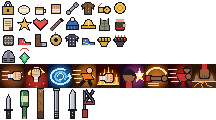
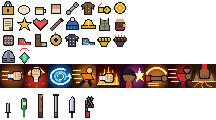
Draw held weapons at the characters' scale
Weapons were nearly half a character tall. Redraw them hand-sized (knife
blade ~9 px, bottle ~12 px, plank and pipe ~23 px, chair ~20 px) with slim
handles so the fist shows around the grip.

Claude-Session: https://claude.ai/code/session_013k7rwq325dcb7HgG4RCeyW

Changed region(s): [[0.3056, 0.75, 0.4444, 1.0], [0.1667, 0.725, 0.2778, 1.0], [0.0, 0.75, 0.1389, 1.0]]

diff --git a/tools/assets/gen_ui.py b/tools/assets/gen_ui.py
@@ -488,71 +488,65 @@ WOOD_DARK = (110, 74, 42, 255)
 
 
 def weapon_knife(d: ImageDraw.ImageDraw) -> None:
-    d.polygon([(6, 21), (6, 11), (8, 6), (10, 11), (10, 21)], fill=OUTLINE)
-    d.polygon([(7, 20), (7, 11), (8, 8), (9, 11), (9, 20)], fill=STEEL)
-    d.line((9, 11, 9, 20), fill=STEEL_DARK)
-    d.rectangle((4, 21, 12, 22), fill=OUTLINE)
-    d.rectangle((6, 22, 10, 30), fill=OUTLINE)
-    d.rectangle((7, 23, 9, 29), fill=(60, 44, 36, 255))
-    d.point((8, 25), fill=(200, 170, 90, 255))
+    # Hand-sized: the handle (no outline) sits in the fist, the blade is ~9 px.
+    d.rectangle((6, 15, 9, 24), fill=OUTLINE)
+    d.rectangle((7, 16, 8, 23), fill=STEEL)
+    d.point((8, 15), fill=STEEL)
+    d.line((8, 16, 8, 23), fill=STEEL_DARK)
+    d.line((5, 24, 10, 24), fill=OUTLINE)
+    d.rectangle((7, 25, 8, 29), fill=(60, 44, 36, 255))
 
 
 def weapon_bottle(d: ImageDraw.ImageDraw) -> None:
-    d.rounded_rectangle((4, 2, 12, 19), radius=2, fill=OUTLINE)
-    d.rounded_rectangle((5, 3, 11, 18), radius=2, fill=(54, 130, 70, 255))
-    d.rectangle((6, 18, 10, 30), fill=OUTLINE)
-    d.rectangle((7, 19, 9, 29), fill=(54, 130, 70, 255))
-    d.rectangle((5, 8, 11, 13), fill=(232, 220, 180, 255))
-    d.line((6, 4, 6, 16), fill=(150, 220, 160, 255))
-    d.rectangle((7, 29, 9, 30), fill=(200, 160, 60, 255))
+    d.rounded_rectangle((5, 10, 10, 21), radius=1, fill=OUTLINE)
+    d.rectangle((6, 11, 9, 20), fill=(54, 130, 70, 255))
+    d.rectangle((6, 14, 9, 16), fill=(232, 220, 180, 255))
+    d.line((6, 11, 6, 19), fill=(150, 220, 160, 255))
+    d.rectangle((7, 21, 8, 29), fill=(54, 130, 70, 255))
+    d.line((7, 29, 8, 29), fill=(200, 160, 60, 255))
 
 
 def weapon_plank(d: ImageDraw.ImageDraw) -> None:
-    d.rectangle((5, 0, 11, 30), fill=OUTLINE)
-    d.rectangle((6, 1, 10, 29), fill=WOOD)
-    for y in (5, 13, 20):
-        d.line((7, y, 9, y + 3), fill=WOOD_DARK)
-    d.point((8, 3), fill=STEEL)
-    d.line((10, 2, 12, 1), fill=STEEL)
-    d.rectangle((6, 23, 10, 29), fill=(90, 60, 40, 255))
+    d.rectangle((6, 6, 10, 29), fill=OUTLINE)
+    d.rectangle((7, 7, 9, 28), fill=WOOD)
+    for y in (10, 17):
+        d.line((8, y, 9, y + 2), fill=WOOD_DARK)
+    d.line((9, 8, 11, 7), fill=STEEL)
+    d.rectangle((7, 24, 9, 28), fill=(90, 60, 40, 255))
 
 
 def weapon_pipe(d: ImageDraw.ImageDraw) -> None:
-    d.rectangle((6, 0, 10, 30), fill=OUTLINE)
-    d.rectangle((7, 1, 9, 29), fill=STEEL_DARK)
-    d.line((7, 1, 7, 29), fill=STEEL)
-    d.rectangle((5, 0, 11, 2), fill=OUTLINE)
-    d.rectangle((6, 1, 10, 1), fill=STEEL)
-    for y in range(23, 30, 2):
-        d.line((7, y, 9, y), fill=(40, 40, 46, 255))
+    d.rectangle((6, 6, 9, 29), fill=OUTLINE)
+    d.rectangle((7, 7, 8, 28), fill=STEEL_DARK)
+    d.line((7, 7, 7, 28), fill=STEEL)
+    d.rectangle((5, 6, 10, 7), fill=OUTLINE)
+    for y in range(24, 29, 2):
+        d.line((7, y, 8, y), fill=(40, 40, 46, 255))
 
 
 def weapon_machete(d: ImageDraw.ImageDraw) -> None:
-    d.polygon([(5, 21), (5, 6), (8, 1), (11, 4), (11, 21)], fill=OUTLINE)
-    d.polygon([(6, 20), (6, 6), (8, 2), (10, 5), (10, 20)], fill=STEEL)
-    d.line((6, 6, 6, 20), fill=(240, 244, 250, 255))
-    d.line((10, 6, 10, 20), fill=STEEL_DARK)
-    d.rectangle((4, 21, 12, 22), fill=OUTLINE)
-    d.rectangle((6, 22, 10, 30), fill=OUTLINE)
-    d.rectangle((7, 23, 9, 29), fill=(40, 36, 34, 255))
-    for y in (24, 27):
-        d.point((8, y), fill=STEEL)
+    d.polygon([(5, 23), (5, 12), (8, 8), (10, 10), (10, 23)], fill=OUTLINE)
+    d.polygon([(6, 22), (6, 12), (8, 9), (9, 11), (9, 22)], fill=STEEL)
+    d.line((6, 12, 6, 22), fill=(240, 244, 250, 255))
+    d.line((9, 12, 9, 22), fill=STEEL_DARK)
+    d.line((5, 24, 10, 24), fill=OUTLINE)
+    d.rectangle((7, 25, 8, 29), fill=(40, 36, 34, 255))
 
 
 def weapon_chair(d: ImageDraw.ImageDraw) -> None:
     # A folding chair from the side, held upside down by the top of its back:
     # backrest at the grip, seat and crossed legs swinging out beyond it.
     metal = (110, 116, 130, 255)
-    d.line((4, 2, 4, 29), fill=OUTLINE, width=3)
-    d.line((4, 2, 4, 29), fill=metal)
-    d.rectangle((2, 21, 7, 29), fill=OUTLINE)
-    d.rectangle((3, 22, 6, 28), fill=(170, 60, 50, 255))
-    d.rectangle((3, 13, 14, 16), fill=OUTLINE)
-    d.rectangle((4, 14, 13, 15), fill=(170, 60, 50, 255))
-    d.line((5, 13, 13, 2), fill=OUTLINE, width=3)
-    d.line((5, 13, 13, 2), fill=metal)
-    d.line((13, 13, 5, 2), fill=OUTLINE, width=3)
-    d.line((13, 13, 5, 2), fill=metal)
+    d.line((6, 12, 6, 29), fill=OUTLINE, width=3)
+    d.line((6, 12, 6, 29), fill=metal)
+    d.rectangle((5, 23, 9, 29), fill=OUTLINE)
+    d.rectangle((6, 24, 8, 28), fill=(170, 60, 50, 255))
+    d.rectangle((5, 17, 13, 19), fill=OUTLINE)
+    d.line((6, 18, 12, 18), fill=(170, 60, 50, 255))
+    d.line((7, 17, 12, 9), fill=OUTLINE, width=3)
+    d.line((7, 17, 12, 9), fill=metal)
+    d.line((12, 17, 7, 9), fill=OUTLINE, width=3)
+    d.line((12, 17, 7, 9), fill=metal)
 
 
 WEAPONS = {

diff --git a/CHANGELOG.md b/CHANGELOG.md
@@ -4,6 +4,11 @@ Format: [Keep a Changelog](https://keepachangelog.com/en/1.1.0/); versions follo
 
 ## [Unreleased]
 
+### Changed — Weapons sized to the hand
+- Held weapons are redrawn at the characters' scale (knife blade ~9 px, bottle ~12 px,
+  plank and pipe ~23 px, folding chair ~20 px) with slim, unoutlined handles so the fist
+  still shows around the grip. Before, they were nearly half a character tall.
+
 ### Added — Three new areas, street weapons and smarter enemies
 - The street goes on past the Sludge Foreman: **Rail Yards** (level 4), **Night Market**
   (level 6, with Kenji's Night Stall) and **Smokestack Refinery** (level 8, boss: the

diff --git a/docs/ASSETS.md b/docs/ASSETS.md
@@ -101,7 +101,7 @@ validator regenerates the sheet in memory and fails when it is stale or an item
 names an unknown icon. See [UI.md](UI.md).
 
 The same sheet holds the street weapons (knife, bottle, plank, steel pipe, machete,
-folding chair) as 16x32 sprites drawn upright with the grip at `weapon_grip` (8, 27),
+folding chair) as sprites in 16x32 cells, drawn upright at the characters' scale with the grip at `weapon_grip` (8, 27),
 so the game can turn them about the hand; `weapons.json` names each one's `sprite`
 and the validator checks it exists. The chair is drawn upside down, held by the top
 of its back, the way one swings a folding chair.
